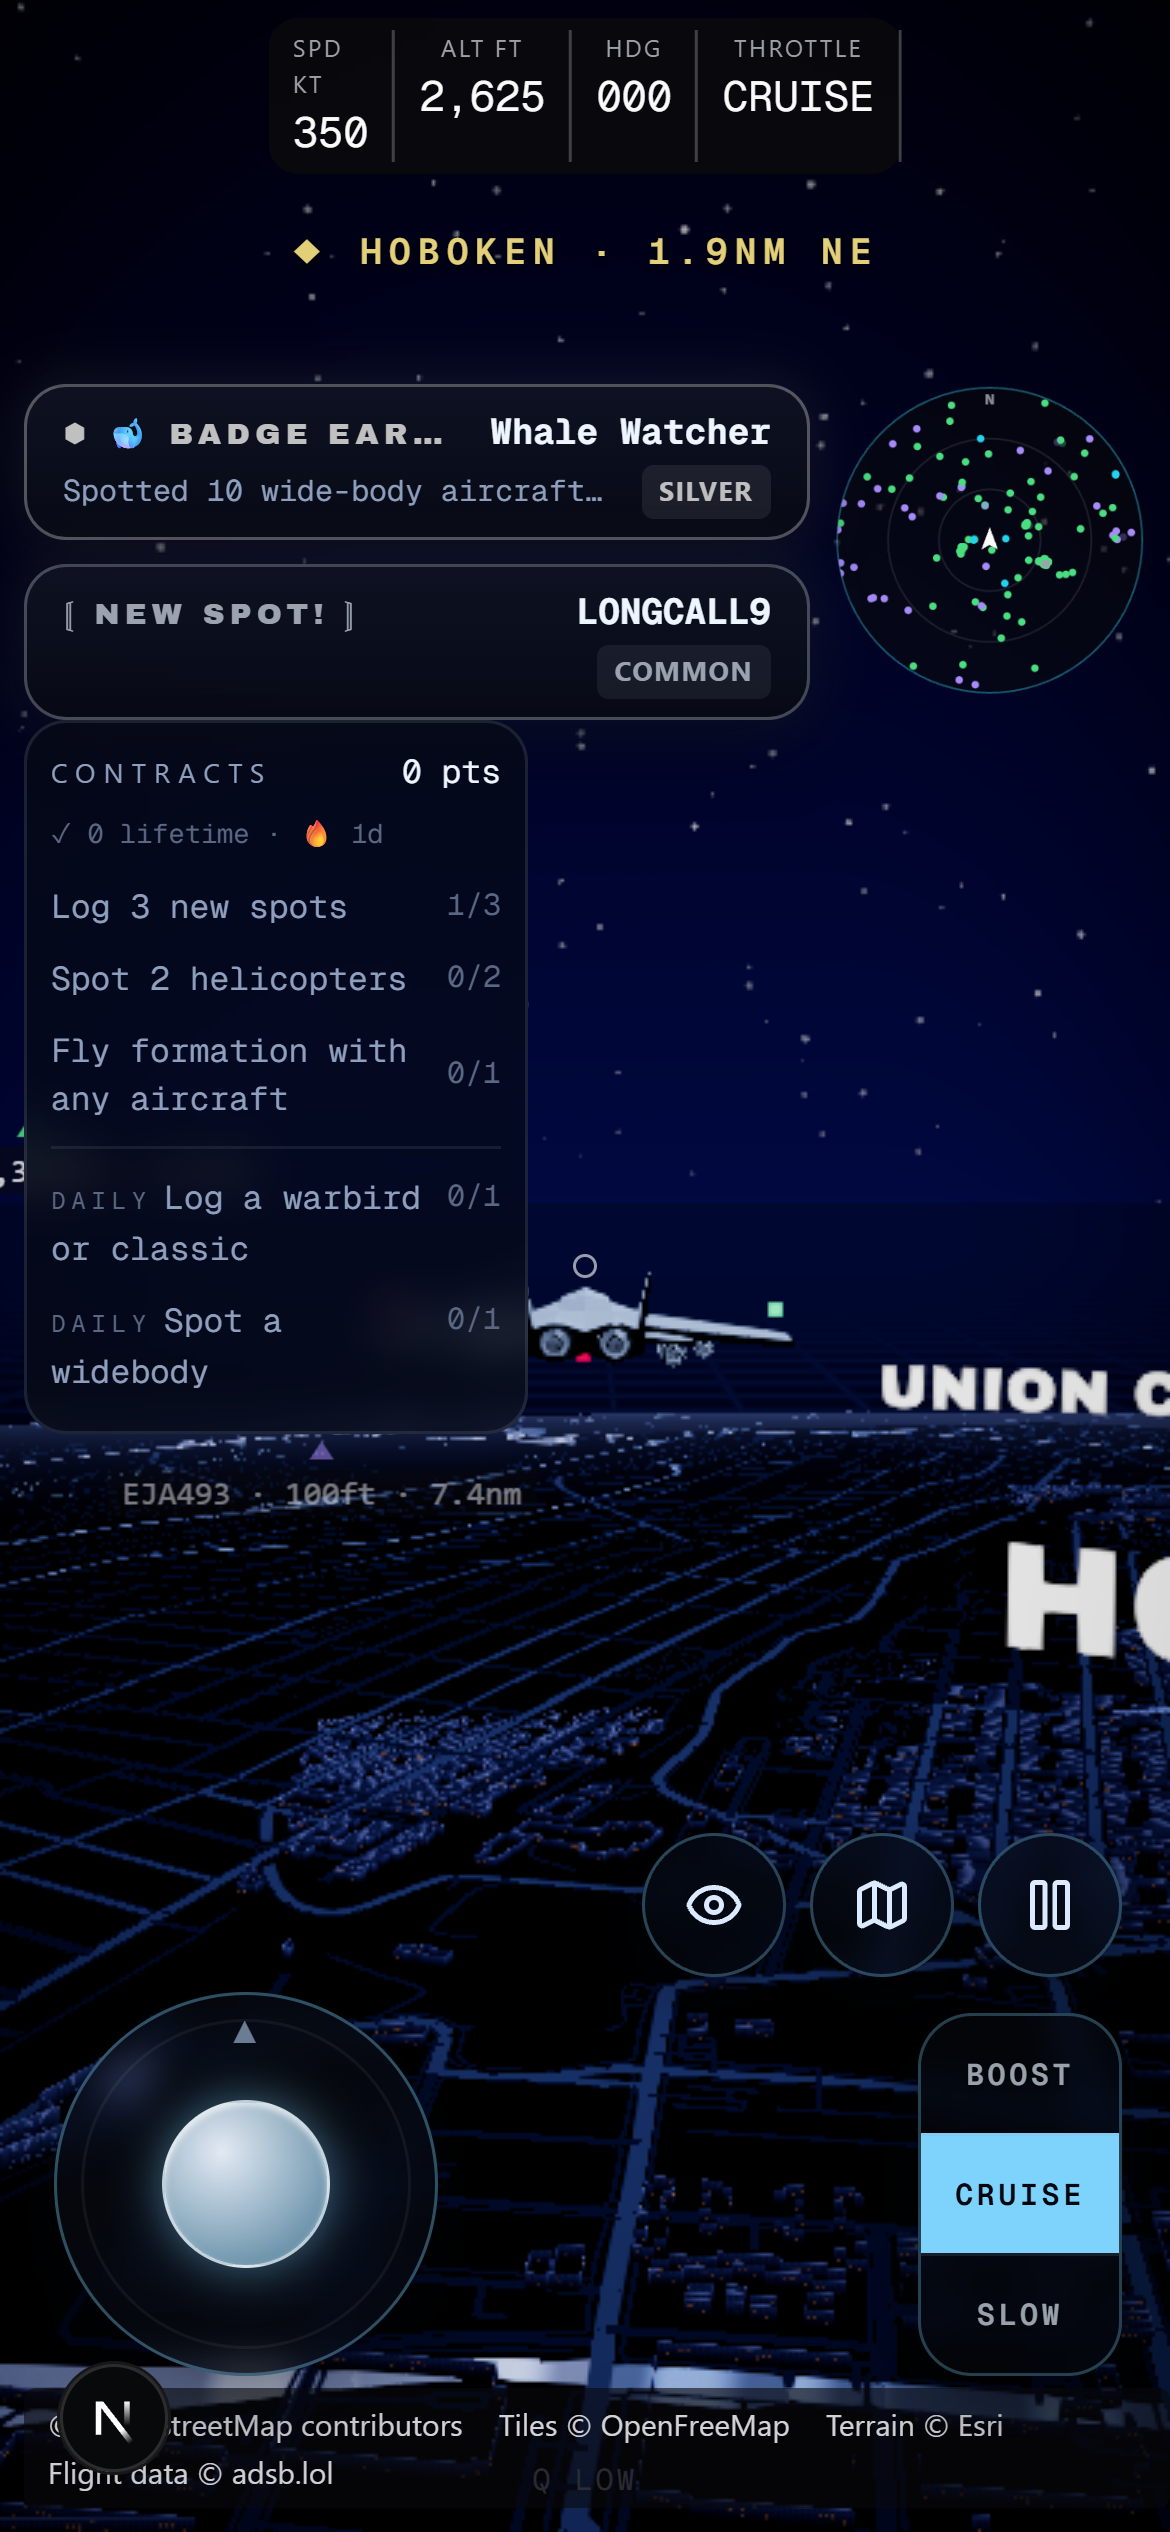
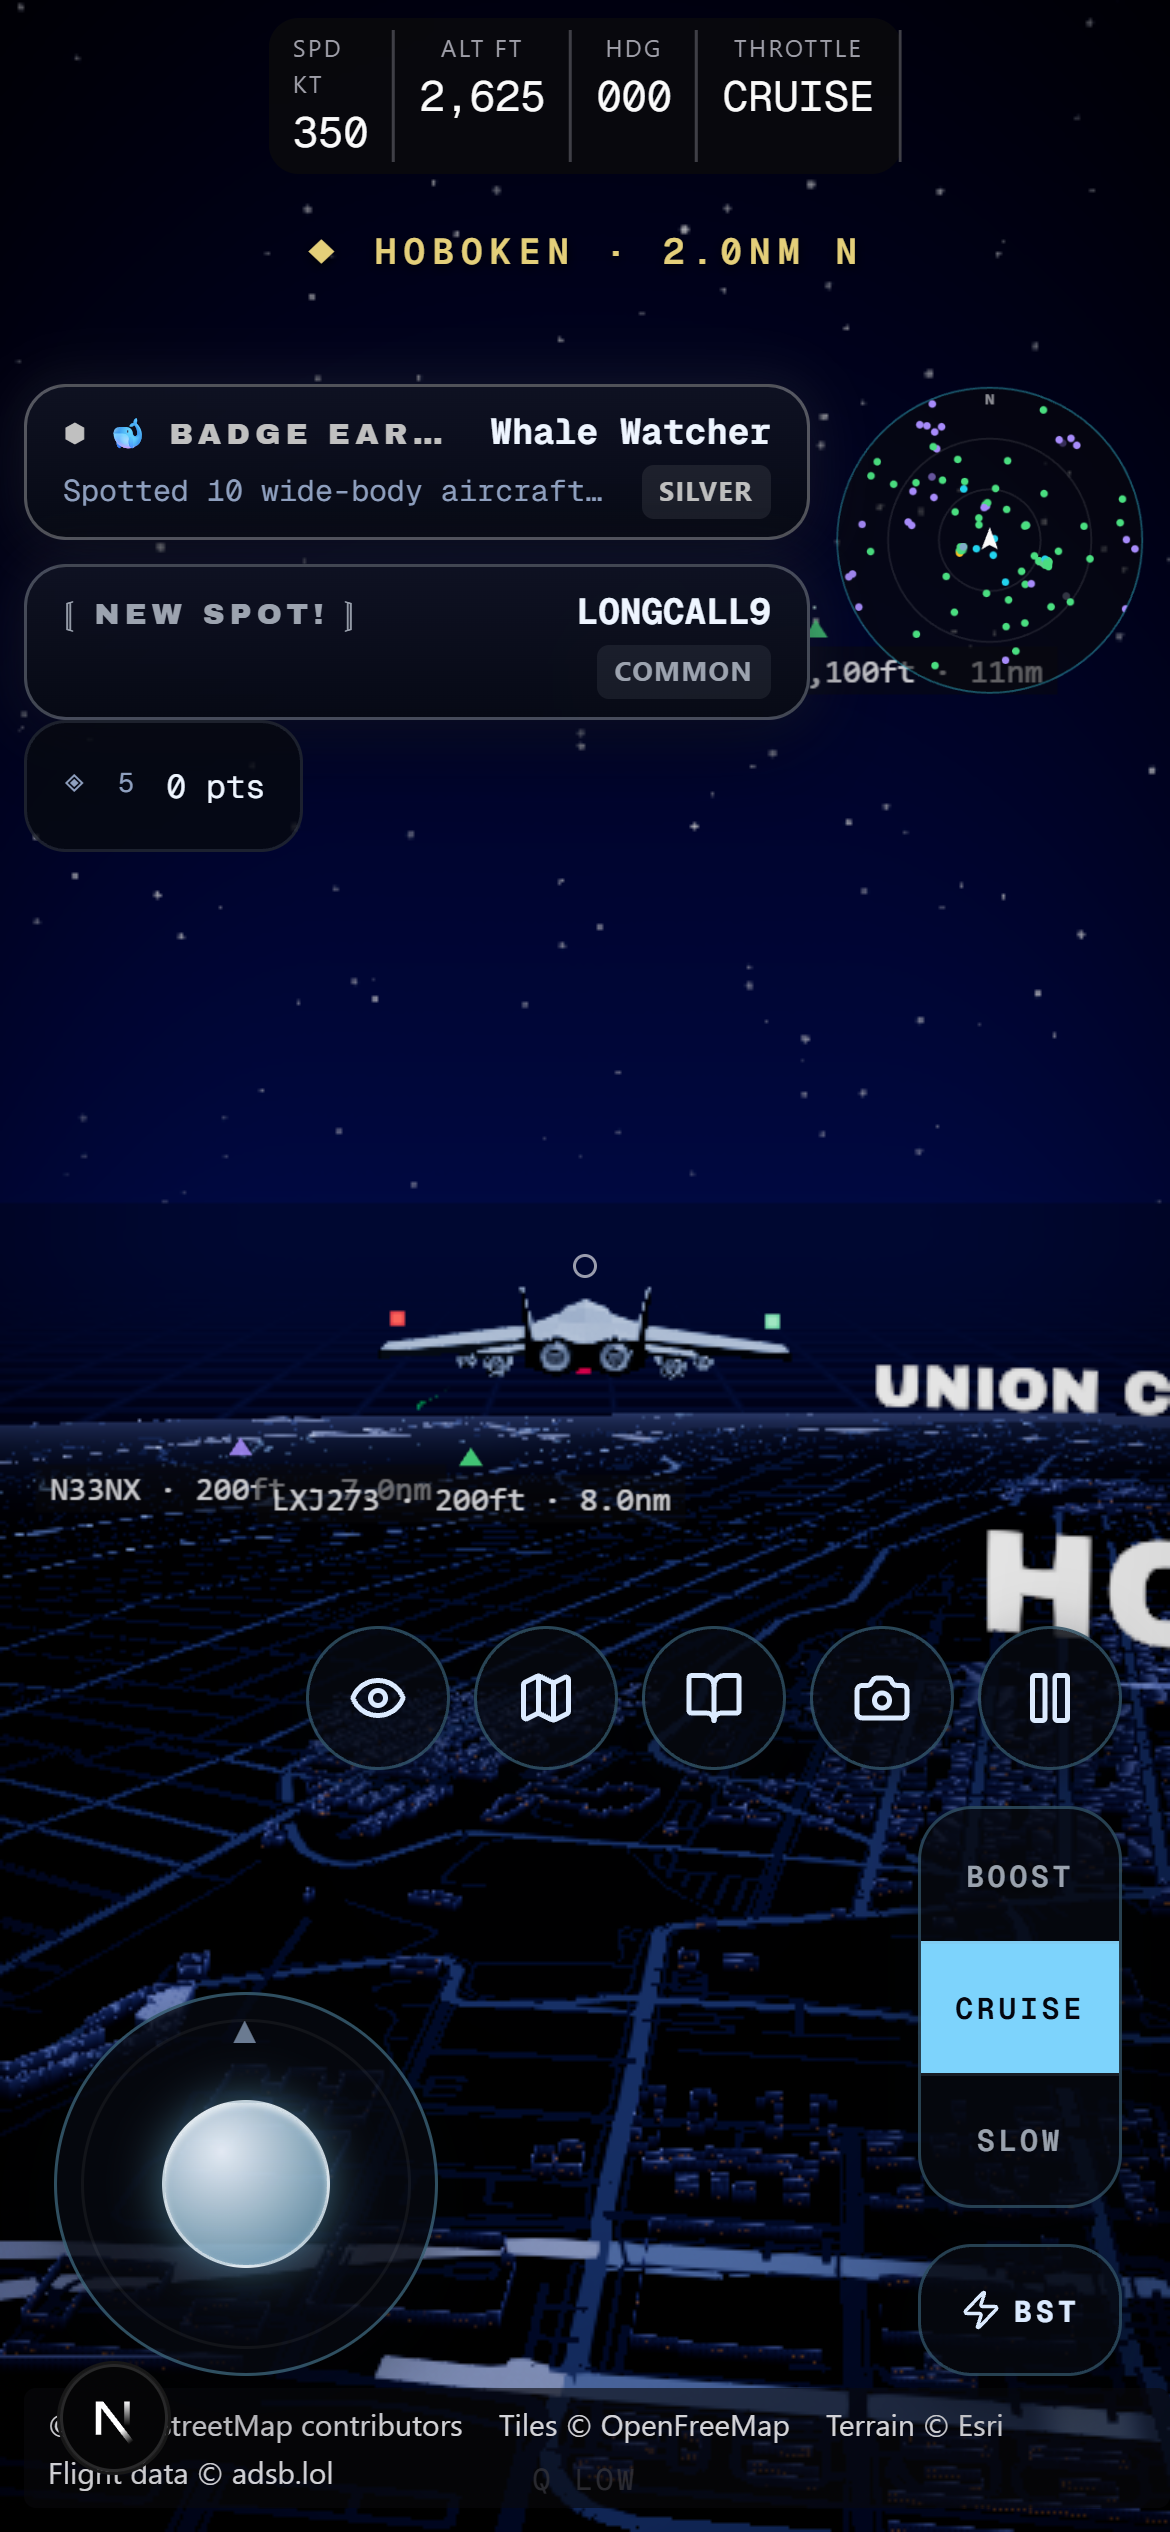
R17 Wave-2 integration: throttle 44px floor, landscape contextual row, portrait contracts chip
Three true positives from the new verify-mobile-layout gate, fixed at the
arbiter level after the A4/A5 merge: (1) throttle detents get min-h-11 (were
39-40px, under the touch floor); (2) landscape rides the contextual buttons
IN the persistent row - stacked, the column top hit y42 and the minimap band;
(3) portrait contracts joins landscape in collapsing to the tap-to-expand
chip - the full panel with daily rows measured bottom 478px, through the
info chip dock, and a collapsed chip is also simply the right answer to
crammed on a 390px screen. Info chip dock recomputed 15.5rem -> 24.5rem
for the A5-era cluster stack. verify-mobile-layout green both orientations;
verify-mobile 28/28; verify-contracts untouched.

diff --git a/components/fly/hud/Contracts.jsx b/components/fly/hud/Contracts.jsx
@@ -457,12 +457,15 @@ export function Contracts({ runtime }) {
     };
   }, [runtime]);
 
-  // Landscape phone: 390px of HEIGHT, and the objective list is the tallest
-  // thing on the left edge. It collapses to a tap-to-expand chip so the strip,
-  // the stick and the world are all still visible; portrait and desktop are
-  // untouched. `expanded` lives here (not the store) because it is pure view
-  // state that should reset when the panel unmounts.
-  const collapsed = landscapePhone && !expanded;
+  // Phone (both orientations, integration recompute — Fable): the objective
+  // list is the tallest persistent thing on the left edge. Landscape got the
+  // tap-to-expand chip first (390px of HEIGHT); portrait joined it when the
+  // daily rows + wrapped labels pushed the full panel's bottom (measured 478px
+  // on 390x844) through the info chip's dock band — and a collapsed chip is
+  // also simply the right answer to "crammed" on a 390px-wide screen. Desktop
+  // is untouched. `expanded` lives here (not the store) because it is pure
+  // view state that should reset when the panel unmounts.
+  const collapsed = isPhone && !expanded;
 
   return (
     <Zone
@@ -493,17 +496,27 @@ export function Contracts({ runtime }) {
           className={`hud-flat-phone rounded-xl border px-3 py-2.5 backdrop-blur-sm max-sm:px-2 max-sm:py-2 ${
             landscapePhone
               ? 'pointer-events-auto relative w-[13.5rem] overflow-y-auto pr-9'
-              : ''
+              : isPhone
+                ? 'pointer-events-auto relative overflow-y-auto pr-9'
+                : ''
           }`}
           style={{
             background: 'rgba(6, 9, 18, 0.62)',
             borderColor: 'rgba(148, 163, 184, 0.16)',
             // The expanded panel must not out-grow a 390px-tall viewport: it
             // opens under the strip and stops short of the throttle rail.
-            maxHeight: landscapePhone ? 'calc(100svh - 7rem)' : undefined,
+            // Portrait phone (integration, Fable): the daily rows + wrapped
+            // labels push the panel bottom past the info chip's dock band
+            // (~404px on 390x844) — cap and scroll; verify-mobile-layout's
+            // zone-overlap gate measured the collision.
+            maxHeight: landscapePhone
+              ? 'calc(100svh - 7rem)'
+              : isPhone
+                ? '16rem'
+                : undefined,
           }}
         >
-        {landscapePhone && (
+        {isPhone && (
           <button
             type="button"
             onClick={() => setExpanded(false)}

diff --git a/components/fly/hud/TouchControls.jsx b/components/fly/hud/TouchControls.jsx
@@ -232,7 +232,7 @@ function Throttle({ runtime, preset, boost }) {
               e.stopPropagation();
               runtime.input?.setSpeedPreset(t.key);
             }}
-            className="flex items-center justify-center py-3 font-mono text-[10px] font-semibold uppercase tracking-[0.12em] transition-colors"
+            className="flex min-h-11 items-center justify-center py-3 font-mono text-[10px] font-semibold uppercase tracking-[0.12em] transition-colors"
             style={{
               color: on ? '#04060f' : 'rgba(203,213,225,0.75)',
               background: on ? t.tint : 'transparent',
@@ -481,7 +481,13 @@ export function TouchControls({ runtime }) {
       </Zone>
 
       <Zone name="controls-right" className={`flex flex-col items-end ${stackGap}`}>
-        {contextual.length > 0 && (
+        {/* Integration (Fable): in LANDSCAPE the contextual row rides IN the
+            persistent row instead of stacking above it — a stacked row pushed
+            the column top to ~y42 on a 390px-tall screen, straight into the
+            minimap's band (caught by verify-mobile-layout's zone-overlap
+            gate). Inline, the column top stays ~150px and the minimap ends
+            ~146px. Portrait keeps the stacked row. */}
+        {!land && contextual.length > 0 && (
           <div className={`flex ${rowGap}`} data-testid="touch-contextual">
             {contextual.map((c) => (
               <ActionButton
@@ -499,6 +505,22 @@ export function TouchControls({ runtime }) {
         )}
 
         <div className={`flex ${rowGap}`}>
+          {land && contextual.length > 0 && (
+            <div className={`flex ${rowGap}`} data-testid="touch-contextual">
+              {contextual.map((c) => (
+                <ActionButton
+                  key={c.id}
+                  testid={c.testid}
+                  label={c.label}
+                  active={actives[c.id]}
+                  size={contextualPx}
+                  onTap={TAP[c.id]}
+                >
+                  <Glyph id={c.id} size={18} />
+                </ActionButton>
+              ))}
+            </div>
+          )}
           {PERSISTENT.map((c) => (
             <ActionButton
               key={c.id}

diff --git a/lib/fly/fly-constants.js b/lib/fly/fly-constants.js
@@ -2528,7 +2528,7 @@ export const MOBILE_UI = {
     'info-dock': {
       desktop: 'absolute bottom-10 left-4 z-10',
       phonePort:
-        'phone-port:inset-x-2 phone-port:bottom-[calc(env(safe-area-inset-bottom)+15.5rem)]',
+        'phone-port:inset-x-2 phone-port:bottom-[calc(env(safe-area-inset-bottom)+24.5rem)]',
       // Landscape: centred in the gap BETWEEN the stick (left, ~18–146 px)
       // and the action cluster (right, from ~760 px). The width is bounded so
       // the chip can never grow into either — an unbounded centred chip that
@@ -2655,10 +2655,14 @@ export const MOBILE_UI = {
     // about 1rem above that — measured 596 px vs a cluster top of 613 px on a
     // 390x844 screen.
     //
-    // A5 IS ADDING CLUSTER BUTTONS (logbook, photo, three contextual). If that
-    // row wraps to two lines the cluster grows ~3.75rem taller and this number
-    // must grow with it; verify-mobile-layout's controls gate will say so.
-    dockBottomRem: 15.5,
+    // A5 LANDED (integration recompute, Fable): the portrait column is now
+    // anchor 3.25 + rail 8.25 (min-h-11 detents) + gap 0.75 + BOOST pad 4.25 +
+    // gap 0.75 + persistent row 3 = 20.25rem, and the CONTEXTUAL row (2.75rem
+    // + gap) tops out at ~23.5rem whenever a lock exists — which is exactly
+    // when the chip shows, so the worst case IS the common case. 24.5rem docks
+    // the chip's bottom ~1rem above that; verify-mobile-layout's zone-overlap
+    // gate measured the 15.5 value colliding with all five persistent buttons.
+    dockBottomRem: 24.5,
   },
 
   /**
